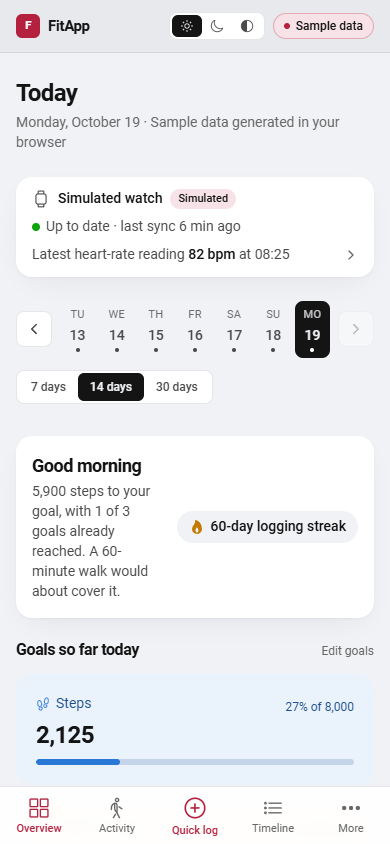
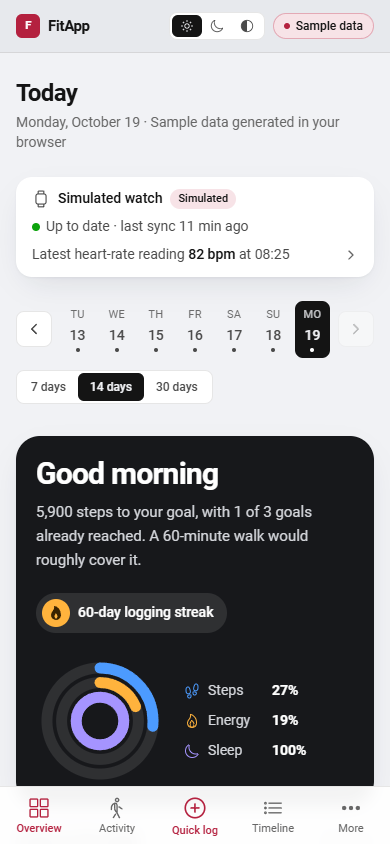
Energetic overview hero and lifted coloured cards
- Today card becomes a solid dark hero with a large greeting, the data-backed
  nudge, the logging streak and three activity rings (steps, energy, sleep)
  that fill on arrival. Flat fills only, no gradients.
- Coloured cards on the canvas get stronger tints and the card shadow, so they
  no longer blend into the grey; tints nested inside cards stay flat.

diff --git a/frontend-fitapp/src/components/TodayNudge.vue b/frontend-fitapp/src/components/TodayNudge.vue
@@ -1,15 +1,41 @@
 <template>
-  <section aria-label="Today at a glance" class="card flex flex-wrap items-center gap-x-6 gap-y-3 p-4 sm:p-5">
+  <section aria-label="Today at a glance" class="hero flex flex-col gap-6 rounded-3xl p-5 sm:flex-row sm:items-center sm:p-7">
     <div class="min-w-0 flex-1">
-      <p class="text-lg font-semibold tracking-tight">{{ greeting }}</p>
-      <p class="mt-0.5 text-sm text-ink-2">{{ message }}</p>
+      <p class="text-3xl font-semibold tracking-tight sm:text-4xl">{{ greeting }}</p>
+      <p class="mt-2 max-w-md text-[15px] leading-relaxed text-ink-2">{{ message }}</p>
+      <div class="mt-5 flex flex-wrap items-center gap-2">
+        <span v-if="streak > 1" class="inline-flex items-center gap-2 rounded-full bg-white/10 py-1.5 pr-3.5 pl-1.5 text-sm font-medium">
+          <span class="grid size-7 place-items-center rounded-full bg-[#ffb33d] text-[#3a2300]">
+            <ion-icon :icon="flame" aria-hidden="true" class="text-base" />
+          </span>
+          <span><span class="tabular">{{ streak }}</span>-day logging streak</span>
+        </span>
+        <PrimaryButton v-if="!loggedToday" label="Log how you feel" @click="ui.openQuickLog('choose')" />
+      </div>
     </div>
-    <div class="flex flex-wrap items-center gap-2">
-      <span v-if="streak > 1" class="inline-flex items-center gap-1.5 rounded-full bg-page px-3 py-1.5 text-sm font-medium">
-        <ion-icon :icon="flame" aria-hidden="true" class="text-base" :style="{ color: 'var(--energy)' }" />
-        <span><span class="tabular">{{ streak }}</span>-day logging streak</span>
-      </span>
-      <PrimaryButton v-if="!loggedToday" label="Log how you feel" @click="ui.openQuickLog('choose')" />
+
+    <div class="flex items-center gap-5">
+      <svg viewBox="0 0 140 140" class="size-32 shrink-0 -rotate-90 sm:size-36" role="img" :aria-label="ringsLabel">
+        <g v-for="(r, i) in rings" :key="r.label" fill="none" stroke-width="12" stroke-linecap="round">
+          <circle cx="70" cy="70" :r="RADII[i]" stroke="rgb(255 255 255 / 0.1)" />
+          <circle
+            v-if="r.ratio !== null"
+            cx="70"
+            cy="70"
+            :r="RADII[i]"
+            :stroke="r.color"
+            class="ring"
+            :style="{ '--len': circ(RADII[i]), strokeDasharray: circ(RADII[i]), strokeDashoffset: circ(RADII[i]) * (1 - Math.min(1, r.ratio)), animationDelay: `${i * 90}ms` }"
+          />
+        </g>
+      </svg>
+      <ul class="grid gap-2.5 text-sm" aria-hidden="true">
+        <li v-for="r in rings" :key="r.label" class="flex items-center gap-2">
+          <ion-icon :icon="r.icon" class="text-base" :style="{ color: r.color }" />
+          <span class="w-14 text-ink-2">{{ r.label }}</span>
+          <span class="tabular font-semibold">{{ r.ratio === null ? '–' : `${Math.round(r.ratio * 100)}%` }}</span>
+        </li>
+      </ul>
     </div>
   </section>
 </template>
@@ -18,6 +44,7 @@
 import { computed } from 'vue'
 import { IonIcon } from '@ionic/vue'
 import { flame } from 'ionicons/icons'
+import { ICONS } from '@/components/metricIcons'
 import PrimaryButton from '@/components/PrimaryButton.vue'
 import { progress } from '@/data/derive'
 import { loggingStreak } from '@/data/journalDerive'
@@ -26,6 +53,9 @@ import { useFitnessStore } from '@/stores/fitness'
 import { useJournalStore } from '@/stores/journal'
 import { useUiStore } from '@/stores/ui'
 import type { DaySummary } from '@/types/fitness'
+
+const RADII = [58, 42, 26]
+const circ = (r: number) => 2 * Math.PI * r
 
 const props = defineProps<{ day: DaySummary | null | undefined }>()
 const fitness = useFitnessStore()
@@ -40,20 +70,56 @@ const loggedToday = computed(() => {
   return d.mood.length + d.meals.length + d.hydration.length + (d.cycleDay ? 1 : 0) > 0
 })
 
+// Bright hues chosen for the dark hero; they match the metric colours in hue.
+const rings = computed(() => {
+  const g = fitness.goals
+  return [
+    { label: 'Steps', icon: ICONS.steps, color: '#4c9bff', ratio: progress(props.day?.activity?.steps, g.steps) },
+    { label: 'Energy', icon: ICONS.activeEnergy, color: '#ffb33d', ratio: progress(props.day?.activity?.activeKcal, g.activeKcal) },
+    { label: 'Sleep', icon: ICONS.sleep, color: '#a594ff', ratio: progress(props.day?.sleep?.durationMin, g.sleepMin) },
+  ]
+})
+const ringsLabel = computed(() => rings.value.map((r) => `${r.label} ${r.ratio === null ? 'not measured' : `${Math.round(r.ratio * 100)}% of goal`}`).join(', '))
+
 /** One sentence from today's own numbers: what is done, or the nearest goal still open. */
 const message = computed(() => {
   const g = fitness.goals
   const steps = props.day?.activity?.steps
-  const goals = [progress(steps, g.steps), progress(props.day?.activity?.activeKcal, g.activeKcal), progress(props.day?.sleep?.durationMin, g.sleepMin)]
-  const reached = goals.filter((r) => r != null && r >= 1).length
+  const reached = rings.value.filter((r) => r.ratio != null && r.ratio >= 1).length
   if (reached === 3) return 'All three goals reached today. That is a great day.'
   if (steps != null && steps < g.steps) {
     const left = Math.ceil((g.steps - steps) / 100) * 100
     // ~100 steps a minute is a typical walking cadence.
     const minutes = Math.max(5, Math.round(left / 100 / 5) * 5)
-    return `${formatInt(left)} steps to your goal${reached ? `, with ${reached} of 3 goals already reached` : ''}. A ${minutes}-minute walk would about cover it.`
+    return `${formatInt(left)} steps to your goal${reached ? `, with ${reached} of 3 goals already reached` : ''}. A ${minutes}-minute walk would roughly cover it.`
   }
   if (reached) return `${reached} of 3 goals reached so far. Keep it up.`
   return 'Your watch data for today will appear here as it syncs.'
 })
 </script>
+
+<style scoped>
+/* A solid dark panel: light ink, and white pills for actions. */
+.hero {
+  background: #17181b;
+  color: #ffffff;
+  --ink: #ffffff;
+  --ink-2: #d5d7dc;
+  --muted: #9ca0a8;
+  --page: #17181b;
+  --focus: #ffffff;
+  box-shadow: var(--card-shadow);
+}
+:root[data-theme='dark'] .hero {
+  background: #232428;
+  --page: #232428;
+}
+.ring {
+  animation: fill 900ms cubic-bezier(0.23, 1, 0.32, 1) both;
+}
+@keyframes fill {
+  from {
+    stroke-dashoffset: var(--len);
+  }
+}
+</style>

diff --git a/frontend-fitapp/src/styles/tailwind.css b/frontend-fitapp/src/styles/tailwind.css
@@ -17,7 +17,7 @@
   --page: #f1f2f5;
   --surface: #ffffff;
   --rail: #e7e9ed;
-  --card-shadow: 0 1px 2px rgb(16 24 40 / 0.04), 0 10px 28px -14px rgb(16 24 40 / 0.12);
+  --card-shadow: 0 1px 2px rgb(16 24 40 / 0.05), 0 12px 32px -12px rgb(16 24 40 / 0.14);
   --ink: #141414;
   --ink-2: #4a4a4a;
   --muted: #676767;
@@ -48,21 +48,21 @@
 
   /* Metric regions: a soft surface tint and a readable ink derived from the same hue. */
   --energy: #c27a00;
-  --activity-soft: #eaf2fc;
+  --activity-soft: #dce9fb;
   --activity-ink: #1d4f8c;
-  --energy-soft: #fdf3e1;
+  --energy-soft: #fbe8c4;
   --energy-ink: #7a4a00;
-  --sleep-soft: #efedfb;
+  --sleep-soft: #e4e0fa;
   --sleep-ink: #43369e;
-  --heart-soft: #fdeee6;
+  --heart-soft: #fbe0d3;
   --heart-ink: #9a3a12;
-  --stress-soft: #e4f4ec;
+  --stress-soft: #d5efe2;
   --stress-ink: #0d6a4c;
-  --spo2-soft: #fdecec;
+  --spo2-soft: #fadcdc;
   --spo2-ink: #a32a2a;
-  --skin-soft: #f0f0ef;
+  --skin-soft: #e6e7ea;
   --skin-ink: #474747;
-  --mood-soft: #fbeef3;
+  --mood-soft: #f8dfe9;
   --mood-ink: #8f2f55;
 
 }
@@ -164,9 +164,14 @@
   .stagger > :nth-child(n + 6) { animation-delay: 200ms; }
   .tone {
     background: var(--tone-soft);
+    box-shadow: var(--card-shadow);
     --ink-2: var(--tone-ink);
     --muted: var(--tone-ink);
     --line: color-mix(in srgb, var(--tone-ink) 18%, transparent);
+  }
+  /* Only tints that sit on the canvas are lifted; tints inside a card stay flat. */
+  :is(.card, .tone) .tone {
+    box-shadow: none;
   }
   .tone-activity { --tone-soft: var(--activity-soft); --tone-ink: var(--activity-ink); --tone: var(--activity); }
   .tone-energy { --tone-soft: var(--energy-soft); --tone-ink: var(--energy-ink); --tone: var(--energy); }
